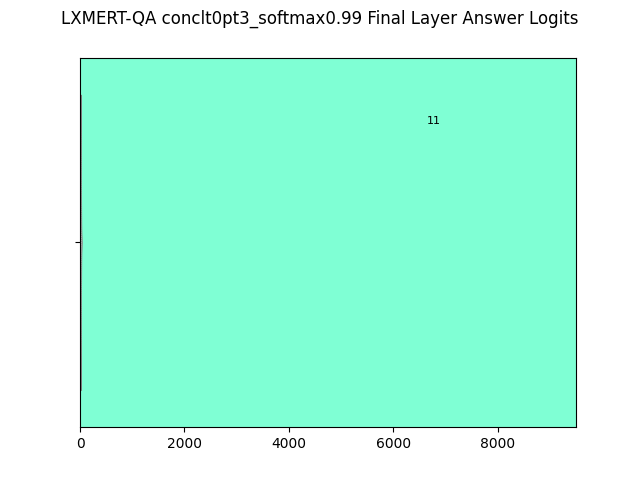
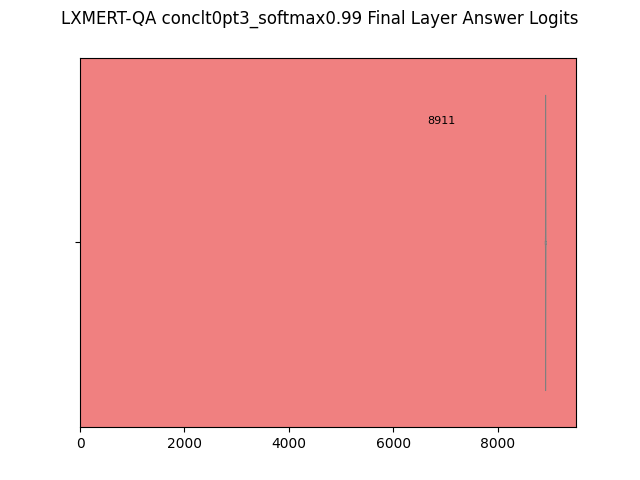
sorted lxmert-qa plots

diff --git a/misc/BERT_analysis.py b/misc/BERT_analysis.py
@@ -228,7 +228,7 @@ def bertqa_logits(sequences, plot_title, plot_save_path, softmax_threshold=0.9, 
             model = BertModel.from_pretrained('bert-base-uncased', config=config).to(device)
     else:
         raise NotImplementedError(f"Support for model {model} not implemented")#
-
+    softy = nn.Softmax()
     # Get Conc & Abs Sequences
     if model_name == "lxmert-qa":
         sequences, vid_sequences = sequences
@@ -242,7 +242,8 @@ def bertqa_logits(sequences, plot_title, plot_save_path, softmax_threshold=0.9, 
             q = torch.Tensor(tokenizer.encode(tokenizer.tokenize(q))).long().to(device)
             dummy_pos = torch.tensor([0,0,639,359]).unsqueeze(0).repeat(len(vid), 1).float().to(device).unsqueeze(0) # Create dummy bounding box the size of TVQA images
             out = model(q.unsqueeze(0),vid,dummy_pos)[0]
-            out = out.cpu().detach().numpy()[0]
+            out = out.cpu().detach()[0]
+            out = softy(out).numpy()
             a_count = len(out)
             sftmx_thrshld = myutils.n_softmax_threshold(out, threshold=softmax_threshold)
             logits.append(sftmx_thrshld)
